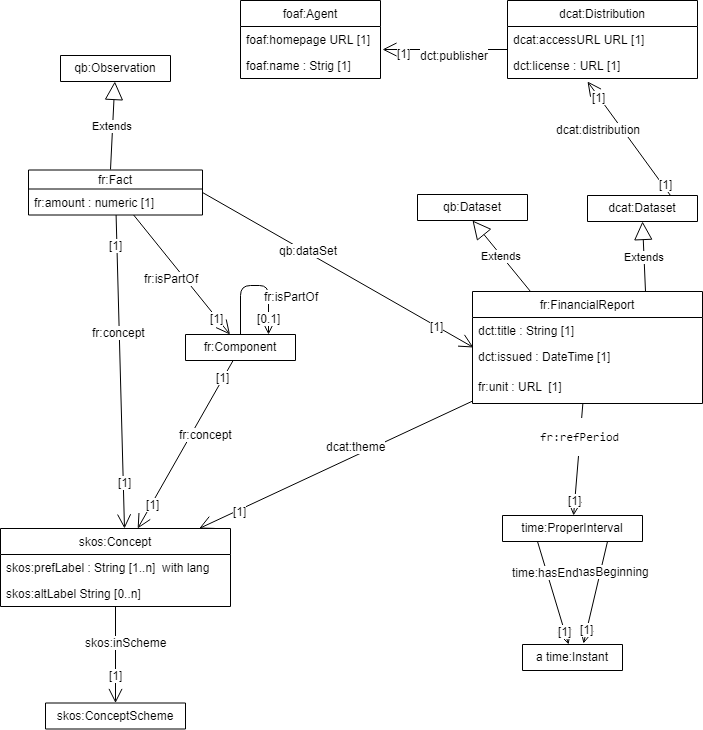
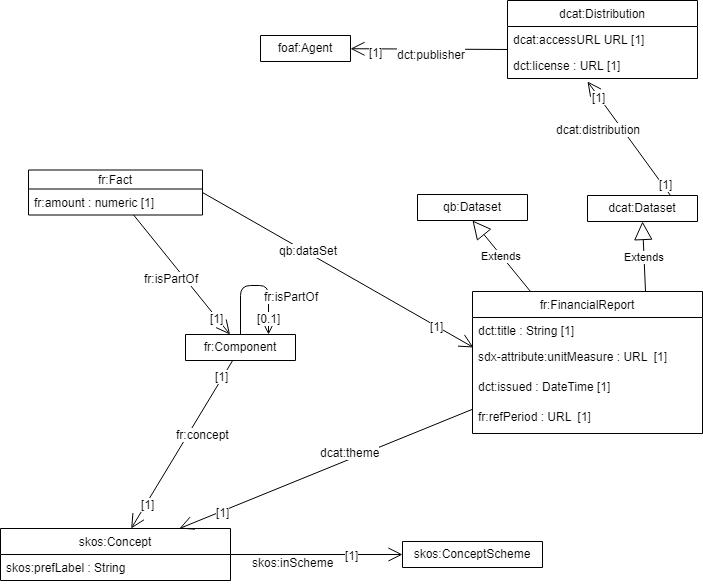
revised doc

diff --git a/README.md b/README.md
@@ -1,12 +1,12 @@
 g0v fr-ap: a financial report application profile
 =================================================
 
-g0v fr-ap  is a specification based on [Finacial Report Vocabulary](http://linkeddata.center/botk-fr/v1) suitable to annotate government financial data 
-with the purpose of supporting  visualization applications (e.g. http://budget.g0v.it/).  
+g0v fr-ap  is a specification based on [Finacial Report Vocabulary](http://linkeddata.center/botk-fr/v1) suitable to annotate government data 
+with the purpose of supporting budget visualization applications (e.g. http://budget.g0v.it/).  
 
 It captures different perspectives of a government budget data like historical trends, cross-department and component breakdown of tax by government. 
 
-g0v fr-ap is a semati web application that builds upon the following RDF vocabularies:: 
+g0v fr-ap is a semantic web application that builds upon the following RDF vocabularies:: 
 
 - the [W3C RDF Data Cube Vocabulary](https://www.w3.org/TR/vocab-data-cube), to describe the outgoings/incomes accounts observations
 - the [Financial Report Vocabulary](http://linkeddata.center/botk-fr/v1) that extends the Data Cube Vocabulary with classes, attributes and bindings about a generic Financtial reports.
@@ -15,7 +15,8 @@ g0v fr-ap is a semati web application that builds upon the following RDF vocabul
 - the [DCMI Metadata Terms](http://dublincore.org/documents/dcmi-terms/)
 - some facilities from [sdmx ontologies](https://sdmx.org/)
 
-g0v fr-ap also reuses some individual references to linked open data provided by [UK e-gov](https://github.com/alphagov/datagovuk_reference) and by [dbpedia](http://dbpedia.org/).
+g0v fr-ap also reuses some individual references to linked open data provided by [UK e-gov](https://github.com/alphagov/datagovuk_reference) and by 
+[Currency EU vocabulary](http://publications.europa.eu/resource/authority/currency).
 
 This picture summarize the g0v fr-ap restrictions:
 
@@ -37,7 +38,7 @@ In this snippet (in RDF turtle format) describes a provisional financial report 
 :2018_budget_report a fr:FinancialReport ;
 	dcat:theme <https://it.dbpedia.org/resource/Bilancio_dello_Stato> ;
 	fr:refPeriod <http://reference.data.gov.uk/id/gregorian-interval/2018-01-01T00:00:00/P1Y> ;
-	fr:unit <http://dbpedia.org/resource/Euro> .
+	fr:unit <http://publications.europa.eu/resource/authority/currency/EUR> .
 	
 :facx_x a fr:Fact;
 	fr:concept :level_5_account_02001200010001 ;
@@ -57,27 +58,22 @@ In this snippet (in RDF turtle format) describes a provisional financial report 
 :top_level_account_A1 a skos:Concept .
 :budget_taxonomy a skos:ConceptScheme; skos:hasTopConcept :top_level_account_A1 .
 
-:2018_quality a qb:Observation ;
-    daq:computedOn :2018_budget_report ; 
-    daq:metric kees:trustGraphMetric;
-    daq:value 0.9 ;
-    daq:isEstimated true 
-.
 ```
 
-A reasoner that is able to understand skos and FR axioms is able to generate the missing mandatory properties and relations. e.g:
+A reasoner that is able to understand SKOS and FR axioms is able to generate CUBE canonical observations e.g:
 
 ```
 :facx_x a fr:Fact, qb:Observable;
 	fr:concept :level_5_account_02001200010001 ;
 	qb:dataSet :2018_budget_report ;
 	fr:refPeriod <http://reference.data.gov.uk/id/gregorian-interval/2018-01-01T00:00:00/P1Y> ;
-	fr:unit <http://dbpedia.org/resource/Euro> ;
+	fr:unit <http://publications.europa.eu/resource/authority/currency/EUR> ;
 	fr:isPartOf :component_z ;
 	fr:amount 288149000000.00	.
 
 :component_z a fr:Component;
     fr:concept :level_4_account_A10200120001;
+    fr:hasPart :facx_x;
     fr:isPartOf :component_k.
     
 :level_4_account_A10200120001 a skos:Concept ; 
@@ -98,7 +94,7 @@ The directory [examples](examples/README.ttl) provides some data and axioms read
 If you want to write an application that analyzes/visualizes budget data, first you have to transform the government budget raw data in RDF linked 
 data according to fr-ap classes and properties. 
 
-With SPARQL update you can also easily write rules to model the  financial data as requested to the visualization tool (for example a bubble graph).
+With SPARQL update you can also easily write rules to model the  financial data as requested BY the visualization tool (for example a bubble graph).
 The application data model can queried using the [SPARQL language](http://www.w3.org/TR/sparql11-query/).
 
 In this picture shows the typical workflow:
